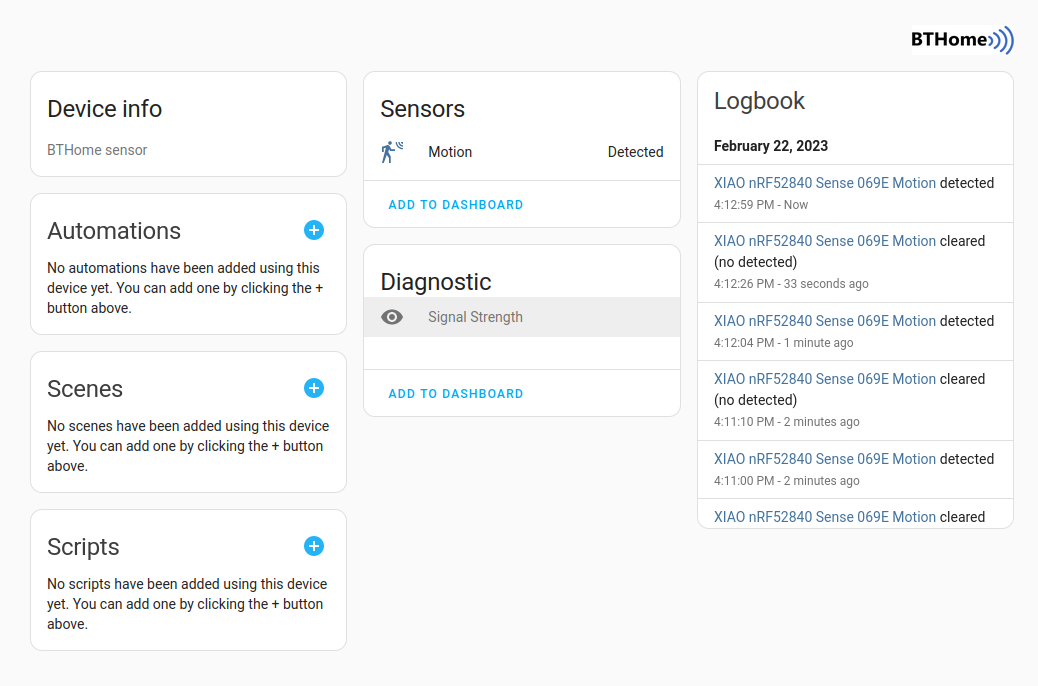
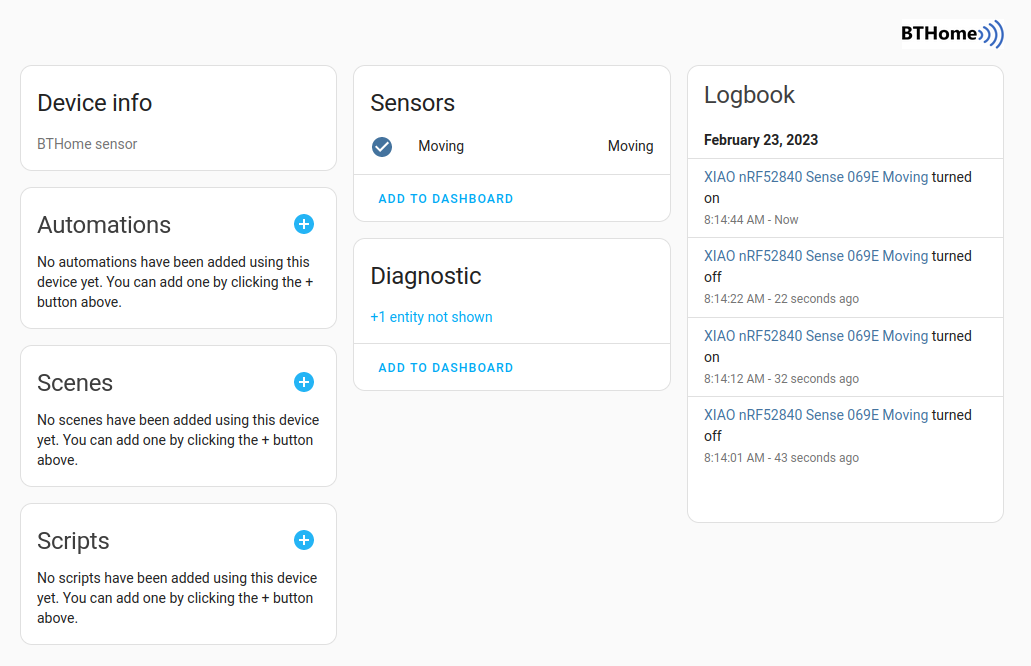
Change sensor type to moving instead of motion
It's really an inertial sensor, not a motion sensor.

diff --git a/code.py b/code.py
@@ -24,7 +24,7 @@ sensor = LSM6DS3(i2c_bus)
 
 class BTHomeAdvertisement:
     _ADV_FLAGS = [0x02, 0x01, 0x06]
-    _ADV_SVC_DATA = [0x06, 0x16, 0xD2, 0xFC, 0x40, 0x21, 0x00]
+    _ADV_SVC_DATA = [0x06, 0x16, 0xD2, 0xFC, 0x40, 0x22, 0x00]
 
     def _name2adv(self, local_name):
         adv_element = bytearray([len(local_name) + 1, 0x09])
@@ -50,9 +50,9 @@ bthome = BTHomeAdvertisement(DEVICE_NAME)
 
 while True:
     gyro_x, gyro_y, gyro_z = sensor.gyro
-    motion = gyro_x**2 + gyro_y**2 + gyro_z**2
-    if motion > SENSITIVITY:
-        print("Motion")
+    moving = gyro_x**2 + gyro_y**2 + gyro_z**2
+    if moving > SENSITIVITY:
+        print("Moving")
         adv_data = bthome.adv_data(1)
     else:
         adv_data = bthome.adv_data(0)

diff --git a/README.md b/README.md
@@ -1,10 +1,10 @@
-# BTHome Motion Detection in CircuitPython with the Seeed XIAO nRF52840 Sense
+# BTHome Inertial Sensor in CircuitPython with the Seeed XIAO nRF52840 Sense
 
-[![GitHub license](https://img.shields.io/github/license/koenvervloesem/BTHome-Motion-Detection-in-CircuitPython.svg)](https://github.com/koenvervloesem/BTHome-Motion-Detection-in-CircuitPython/blob/main/LICENSE)
+[![GitHub license](https://img.shields.io/github/license/koenvervloesem/BTHome-Inertial-Sensor-in-CircuitPython.svg)](https://github.com/koenvervloesem/BTHome-Inertial-Sensor-in-CircuitPython/blob/main/LICENSE)
 
-This project offers [CircuitPython](https://circuitpython.org) code to detect motion with the [Seeed XIAO nRF52840 Sense](https://www.seeedstudio.com/Seeed-XIAO-BLE-Sense-nRF52840-p-5253.html) and send Bluetooth Low Energy (BLE) advertisements in the [BTHome](https://bthome.io/) format.
+This project offers [CircuitPython](https://circuitpython.org) code to detect motion of the [Seeed XIAO nRF52840 Sense](https://www.seeedstudio.com/Seeed-XIAO-BLE-Sense-nRF52840-p-5253.html) board and send Bluetooth Low Energy (BLE) advertisements in the [BTHome](https://bthome.io/) format when it's moving.
 
-This allows you to use the Seeed XIAO nRF52840 Sense as a motion detection device in Home Assistant, as the BLE advertisements in the BTHome format are supported by Home Assistant and automatically discovered when using the [BTHome integration](https://www.home-assistant.io/integrations/bthome). The code uses the [unencrypted BTHome v2 format](https://bthome.io/format/).
+This allows you to use the Seeed XIAO nRF52840 Sense as an inertial sensor in Home Assistant, as the BLE advertisements in the BTHome format are supported by Home Assistant and automatically discovered when using the [BTHome integration](https://www.home-assistant.io/integrations/bthome). The code uses the [unencrypted BTHome v2 format](https://bthome.io/format/).
 
 ## Installation
 
@@ -13,7 +13,7 @@ This allows you to use the Seeed XIAO nRF52840 Sense as a motion detection devic
 * A disk named **XIAO-SENSE** will now appear on your computer's file explorer. Drag and drop the downloaded UF2 file onto the disk. Then your computer disconnects the disk and mounts a new disk called **CIRCUITPY**. Your board is now ready for programming with CircuitPy.
 * Download the [CircuitPython libraries](https://circuitpython.org/libraries), in particular the bundle for CircuitPython 8.x. Extract the ZIP file and copy the folders **adafruit\_bus\_device**, **adafruit\_lsm6ds** and **adafruit\_register** to the **lib** folder of your **CIRCUITPY** drive.
 * You can now use the code editor [Mu](https://codewith.mu) to save the file [code.py](code.py) to the Seeed XIAO nRF52840 Sense or you can copy it manually to the **CIRCUITPY** drive.
-* Reset the board, after which it starts advertising motion events every 100 ms in the unencrypted BTHome v2 format.
+* Now the board starts advertising its moving state every 100 ms in the unencrypted BTHome v2 format.
 
 ## Using the device in Home Assistant
 
@@ -21,11 +21,11 @@ Check whether your Bluetooth adapter is recognised by Home Assistant. If you hav
 
 Click again on **Add Integration** on the same page and this time choose **BTHome**. If your board is currently advertising, it will already be recognised here immediately:
 
-![Add your BTHome motion detection device](bthome-add-device.png)
+![Add your BTHome inertial sensor](bthome-add-device.png)
 
-Click **Submit**, assign it to an area if necessary and then click **Finish**. After that, you can view the device and add the motion sensor to your dashboard or use it in your automations:
+Click **Submit**, assign it to an area if necessary and then click **Finish**. After that, you can view the device and add the inertial sensor to your dashboard or use it in your automations:
 
-![Device information of your BTHome motion detection device](bthome-device-info.png)
+![Device information of your BTHome inertial sensor](bthome-device-info.png)
 
 ## Customizing the code
 
@@ -38,7 +38,7 @@ INTERVAL = 0.1
 SENSITIVITY = 0.01
 ```
 
-`DEVICE_NAME` is the advertised device name in the BLE packets. `INTERVAL` is the interval between the BLE advertisements (in seconds, so 100 ms by default). And `SENSITIVITY` is the sensitivity of the gyroscope used to decide when there's motion. Make this number smaller to detect smaller movements and bigger to detect only larger movements.
+`DEVICE_NAME` is the advertised device name in the BLE packets. `INTERVAL` is the interval between the BLE advertisements (in seconds, so 100 ms by default). And `SENSITIVITY` is the sensitivity of the gyroscope used to decide when the board is moving. Make this number smaller to detect smaller movements and bigger to detect only larger movements.
 
 The code is a simple example of how you can send BLE advertisements in the BTHome format with CircuitPython. Consult the BTHome format specification for how to adapt this to other sensor types.
 
